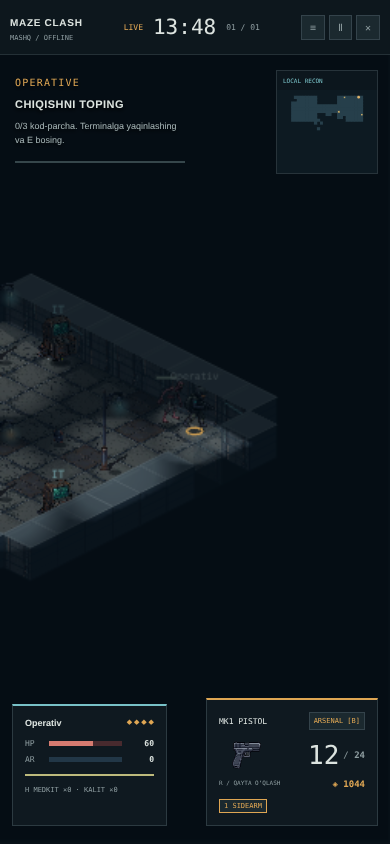
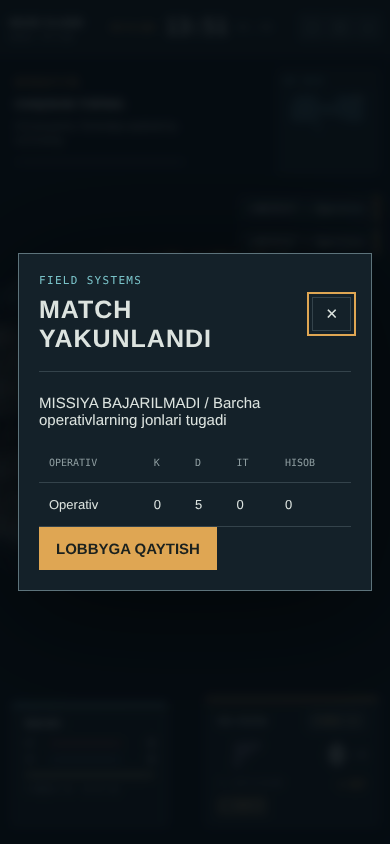
fix: close stale puzzles on death and finish exhausted escape matches

diff --git a/public/practice-worker.js b/public/practice-worker.js
@@ -1024,6 +1024,12 @@ class World {
     p.lives = Math.max(0, p.lives - 1);
     p.respawnAt = p.lives > 0 ? Date.now() + 3200 : 0;
     p.input.fire = false;
+    for (const t of this.terminals) {
+      if (t.reservedBy === p.id) {
+        t.reservedBy = null;
+        t.reservedUntil = 0;
+      }
+    }
     const a = this.getPlayer(attacker);
     if (a && a.id !== p.id) {
       a.kills++;
@@ -1363,8 +1369,10 @@ class World {
       t.reservedUntil < Date.now() ||
       msg.quiz !== t.quiz ||
       !this.sight(p, t)
-    )
+    ) {
+      this.event("puzzle_close", { target: p.id });
       return;
+    }
     const q = QUIZZES[t.quiz];
     if (!q) return;
     if (msg.answer === q.correct) {
@@ -1501,7 +1509,14 @@ class World {
       }
       return;
     }
-    if (this.mode === "escape") return;
+    if (this.mode === "escape") {
+      if (list.every((p) => !p.alive && p.lives === 0))
+        this.endRound(
+          "MISSIYA BAJARILMADI",
+          "Barcha operativlarning jonlari tugadi",
+        );
+      return;
+    }
     if (this.mode === "ffa") {
       const possible = list.filter((p) => p.alive || p.lives > 0);
       if (possible.length === 1 && list.length > 1)
@@ -1746,6 +1761,7 @@ class World {
       target: p.id,
       terminal: t.id,
       quiz: t.quiz,
+      expiresAt: t.reservedUntil,
       question: { q: q.q, a: q.a },
     });
   }

diff --git a/client/main.js b/client/main.js
@@ -274,6 +274,15 @@ function receive(m) {
         y = me.y;
       Object.assign(me, m.me, { x, y, round: m.round });
     }
+    if (
+      dialogType === "puzzle" &&
+      (!m.me.alive ||
+        m.phase !== "playing" ||
+        m.now > (modalQuestion?.expiresAt || Infinity))
+    ) {
+      modalQuestion = null;
+      closeModal();
+    }
     for (const e of m.events || [])
       if (!seenEvents.has(e.id)) {
         seenEvents.add(e.id);
@@ -329,8 +338,14 @@ function renderLobby() {
 function processEvent(e) {
   renderer.onEvent(e);
   if (e.kind === "puzzle_open") {
+    if (!view?.me?.alive || view.phase !== "playing") return;
     modalQuestion = e;
     showPuzzle(e);
+    return;
+  }
+  if (e.kind === "puzzle_close" && dialogType === "puzzle") {
+    modalQuestion = null;
+    closeModal();
     return;
   }
   if (e.kind === "hint") toast(e.msg);

diff --git a/docs/TEST_REPORT_UZ.md b/docs/TEST_REPORT_UZ.md
@@ -3,9 +3,9 @@
 | Tekshiruv | Natija |
 |---|---|
 | `npm run check` | Syntax, 1000 quiz schema, 19 manba, 324 sprite hududi o‘tdi |
-| `npm test` | 13/13: fizika, qurol, loot, terminal, privacy, rejim, map, AI, WS |
-| `npm run test:e2e` | 8 browser check: mashq, E quiz, WASD+mouse+fire, shop/reload, screenshot, 2-client multiplayer, 390px, 0 console error |
-| Render baseline | Chromium software headless, 1440×1000; 60 FPS, mean 2.92 ms, p95 5.70 ms |
+| `npm test` | 14/14: fizika, qurol, loot, terminal, privacy, rejim, map, AI, WS |
+| `npm run test:e2e` | 9 browser check: mashq, E quiz, WASD+mouse+fire, shop/reload, screenshot, 2-client multiplayer, 390px, 0 console error |
+| Render baseline | Chromium software headless, 1440×1000; 48–60 FPS kuzatildi; oxirgi sinov 48 FPS, mean 3.94 ms, p95 8.90 ms |
 | `npm run test:load` | 20 WebSocket client, 15 monster, 30 Hz target / 15 Hz snapshot |
 | Lokal server load | 6 s, 189 tick; mean 2.859 ms, max 20 ms, kamida 94 snapshot/client; 74 MB RSS |
 
@@ -14,3 +14,5 @@ Bu raqamlar tanlangan lokal testdagi o‘lchovlar. O‘zbekiston internetidagi l
 Browser rasmlari: `screenshots/menu.png`, `gameplay.png`, `multiplayer.png`, `mobile.png`.
 
 Live deploy tekshiruvi: Render `live`, `/health` 200; ikki tashqi browser client bir xonaga kirib match boshladi. `screenshots/live-server.png` shu jonli serverdan olingan. Tashqi browserda ikki tab bilan 21–30 FPS ham kuzatildi; 60 FPS faqat yuqoridagi lokal baseline natijasi.
+
+Ochiq jumboq paytida o‘lim, reservation expiry va Escape’da barcha jonlarning tugashi alohida regression bilan tekshirildi. O‘limda terminal bandligi serverda bo‘shatiladi; eski quiz oynasi clientda yopiladi.
